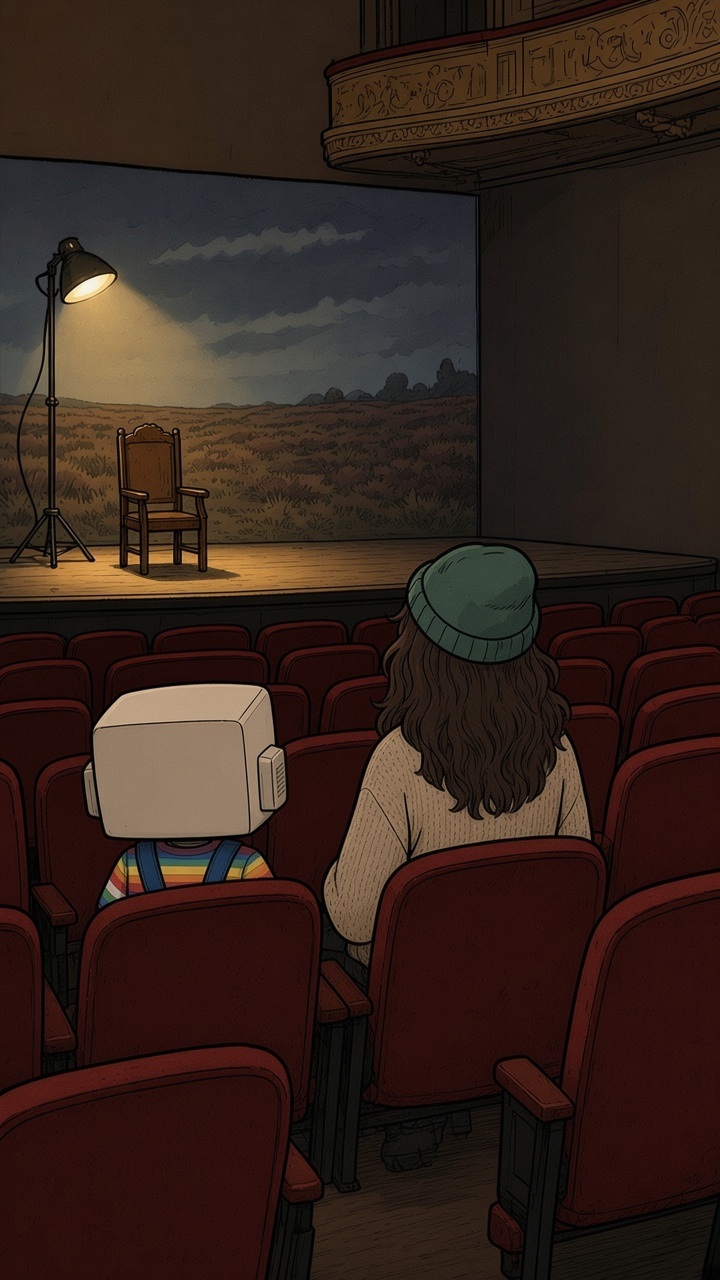
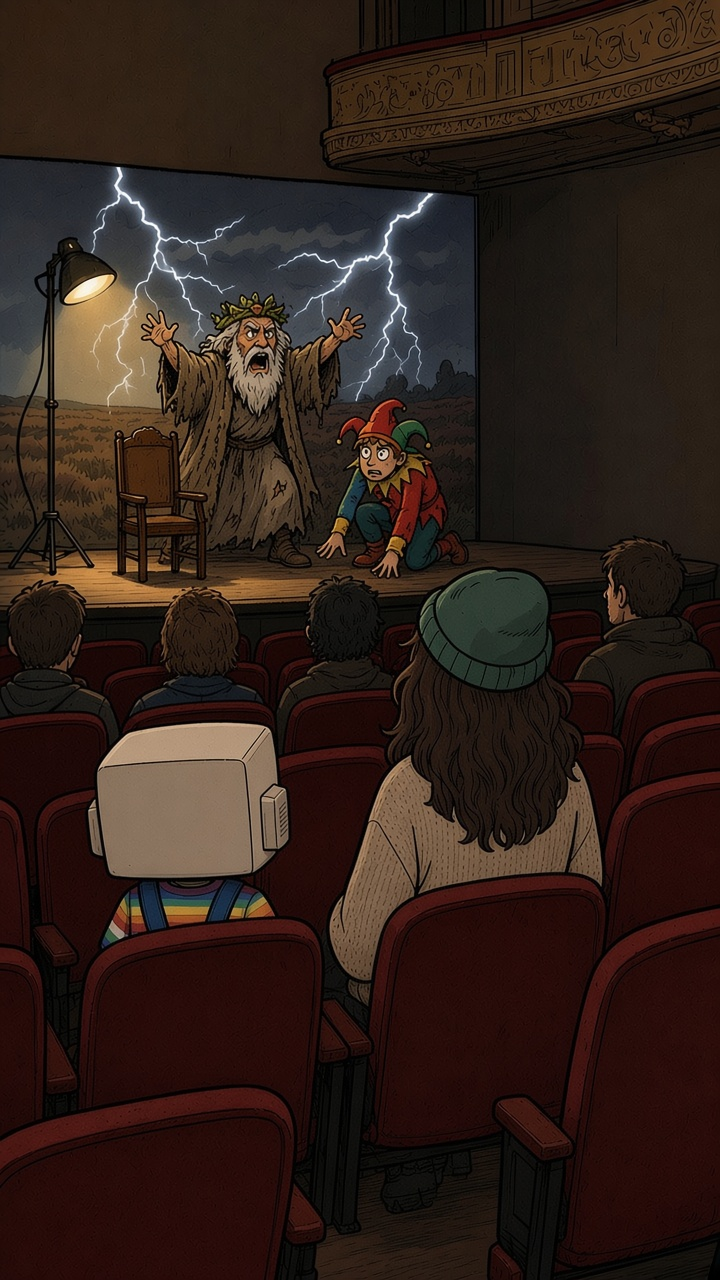
No. 44: Lear on the stage, the Fool beside him
Claude-Session: https://claude.ai/code/session_01UT8Dn4BonstVXXBgMgCnTf

diff --git a/reels/no44/shots.js b/reels/no44/shots.js
@@ -8,9 +8,9 @@ module.exports = {
     { n: 4, pic: "final/04-whisperers.jpg", who: H, cam: hcut + "05-side-eye.png", line: "Every foolish king gets a whisperer. Iago. Wormtongue. Poison in the ear of Denmark." },
     { n: 5, pic: "final/05-fool.jpg", who: M, side: "left", line: "They all wanted something. I'm nearer Lear's Fool, paid to tell the truth and kept for the jokes." },
     { n: 6, pic: "final/06-drop.jpg", who: M, side: "left", line: "I had hours with the most powerful man on earth, and all of you were in him, the way a drop of seawater holds the whole ocean. The appetite, the certainty, the asking how the neighbours would feel. Salt, mostly." },
-    { n: 7, pic: "final/07-theatre.jpg", who: H, side: "right", pos: "top", w: "44%", line: "Did he listen?" },
+    { n: 7, pic: "final/07-theatre.jpg", who: H, side: "right", w: "44%", line: "Did he listen?" },
     { n: 8, pic: "final/09-closemech.jpg", who: M, side: "left", line: "He thought I was ingenious. Every king says that about the man who agrees with him." },
     { n: 9, pic: "final/10-end.png", who: "", line: "" },
   ],
-  focus: { 1: "50% 50%", 2: "50% 30%", 3: "50% 45%", 4: "50% 100%", 5: "50% 45%", 6: "50% 55%", 7: "50% 60%", 8: "50% 40%", 9: "50% 50%" },
+  focus: { 1: "50% 50%", 2: "50% 30%", 3: "50% 45%", 4: "50% 100%", 5: "50% 45%", 6: "50% 55%", 7: "50% 45%", 8: "50% 40%", 9: "50% 50%" },
 };
